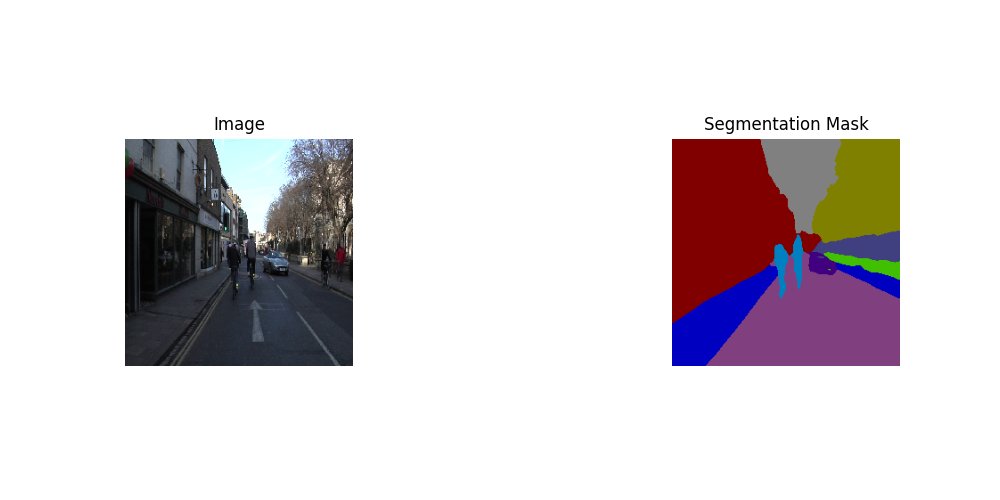
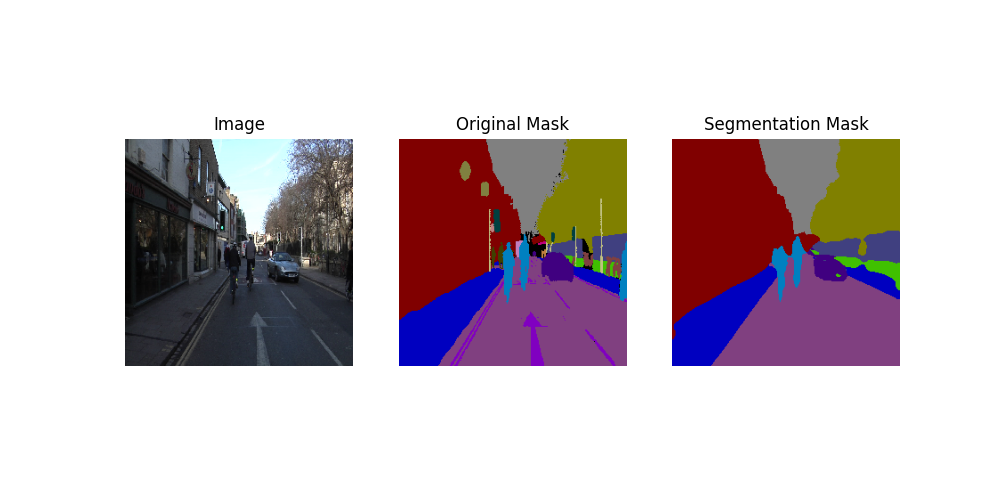
removing unneeded imports

diff --git a/Assignment2/cnn_analysis.py b/Assignment2/cnn_analysis.py
@@ -25,8 +25,10 @@ def jaccard_index(y_true, y_pred):
 
 
 load_data = np.load('dataset.npz')
-X_train, y_train, X_val, y_val, X_test, y_test = load_data['X_train'], load_data['y_train'], load_data['X_val'], load_data['y_val'], load_data['X_test'], load_data['y_test']
+X_test, y_test = load_data['X_test'], load_data['y_test']
 
+y_out = np.argmax(y_test, axis=-1)
+print(len(y_out), len(y_test))
 # Define the custom objects dictionary with the custom loss function
 custom_objects = {'categorical_dice_loss': categorical_dice_loss, 'dice_coef': dice_coef, 'jaccard_index': jaccard_index}
 
@@ -46,7 +48,18 @@ label_colors = {
     28: [64, 0, 64], 29: [192, 192, 0], 30: [0, 0, 0], 31: [64, 192, 0]
 }
 
+
+
 # Decode masks
+def decode_mask(encoded_mask, label_colors):
+    # Initialize decoded_mask with zeros
+    decoded_mask = np.zeros((encoded_mask.shape[0], encoded_mask.shape[1], 3), dtype=np.uint8)
+    # Iterate over each color and set the decoded mask to the corresponding color
+    for k in label_colors.keys():
+        decoded_mask[encoded_mask == k] = label_colors[k]
+    return decoded_mask
+
+
 loss, dice_coef, jaccard_index, accuracy = vgg_model.evaluate(X_test, y_test)
 print("Test Accuracy: {:.3f}".format(accuracy))
 print("Test Jaccard Index: {:.3f}".format(jaccard_index))
@@ -58,27 +71,27 @@ predicted_masks = vgg_model.predict(X_test)
 single_layer = np.argmax(predicted_masks, axis=-1)
 
 # Initialize decoded_masks with the correct shape
-decoded_masks = np.zeros((X_test.shape[0], 256, 256, 3), dtype=np.uint8)
+decoded_masks = np.array([decode_mask(mask, label_colors) for mask in single_layer])
 
-# Iterate over each sample
-for i in range(decoded_masks.shape[0]):
-    # Get the single-layer mask for the current sample
-    single_layer_mask = single_layer[i]
-    # Create an output RGB array for the current sample
-    output_sample = np.zeros((256, 256, 3))
-    # Assign colors based on the label colors dictionary
-    for k in label_colors.keys():
-        output_sample[single_layer_mask == k] = label_colors[k]
-    # Update the decoded masks array with the RGB output for the current sample
-    decoded_masks[i] = np.uint8(output_sample)
+# Initialize decoded_masks with the correct shape for y_test
+decoded_y_test = np.array([decode_mask(mask, label_colors) for mask in y_out])
+plt.imshow(decoded_masks[0])
+plt.savefig('cnn_decoded_mask.png')
 
+
+# ------------- Visualize the Segmentation ---------------
 
 # Visualization
-def visualize_segmentation(image, mask, label_colors):
+def visualize_segmentation(image, original_mask, mask, label_colors):
     plt.figure(figsize=(10, 5))
     plt.subplot(1, 3, 1)
     plt.imshow(image)
     plt.title("Image")
+    plt.axis("off")
+    
+    plt.subplot(1, 3, 2)
+    plt.imshow(original_mask)
+    plt.title("Original Mask")
     plt.axis("off")
     
     plt.subplot(1, 3, 3)
@@ -88,12 +101,12 @@ def visualize_segmentation(image, mask, label_colors):
     plt.savefig('cnn_segmentation.png')
     plt.show()
 
-# Choose a random sample for visualization
+# # Choose a random sample for visualization
 sample_index = np.random.randint(len(X_test))
-visualize_segmentation(X_test[sample_index], decoded_masks[sample_index], label_colors)
+visualize_segmentation(X_test[sample_index], decoded_y_test[sample_index], decoded_masks[sample_index], label_colors)
 
 
-
+# ------------- Saliency Map and GradCAM ---------------
 def compute_saliency_map(model, input_image):
     input_tensor = tf.convert_to_tensor(input_image)
     input_tensor = tf.expand_dims(input_tensor, axis=0)  # Add batch dimension
@@ -133,18 +146,18 @@ plt.axis("off")
 plt.savefig('cnn_saliency_map.png')
 plt.show()
 
-# GradCAM using tf-explain
-# Create a GradCAM explainer
-explainer = grad_cam.GradCAM()
+# # # GradCAM using tf-explain
+# # # Create a GradCAM explainer
+# # explainer = grad_cam.GradCAM()
 
 
-for i in range(9):
-    # Call to explain() method
-    j = i + 1
-    output = explainer.explain((X_test, y_test), vgg_model, None, f"conv2d_{j}")
+# # for i in range(9):
+# #     # Call to explain() method
+# #     j = i + 1
+# #     output = explainer.explain((X_test, y_test), vgg_model, None, f"conv2d_{j}")
 
-    # Save output
-    explainer.save(output, '.', f'cnn_gradcam_{j}.png')
+# #     # Save output
+# #     explainer.save(output, '.', f'cnn_gradcam_{j}.png')
 
 
 
